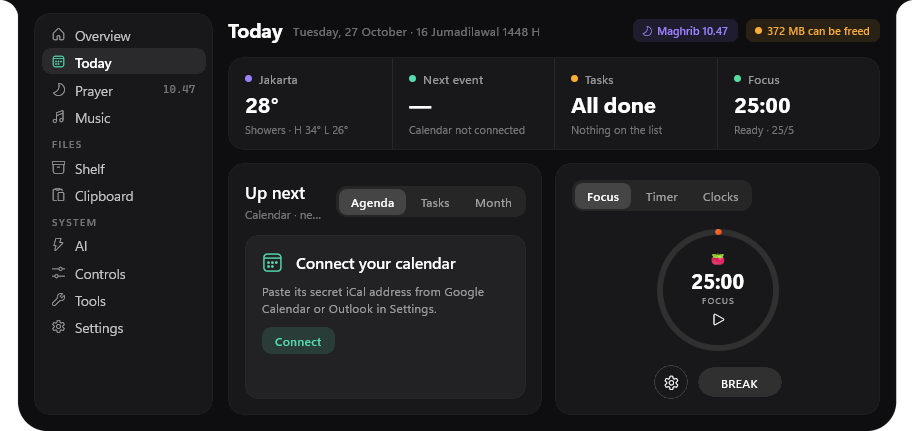
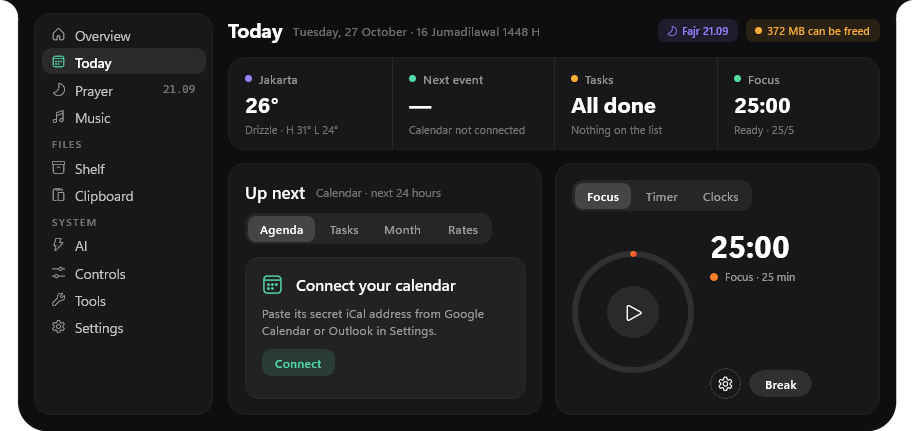
docs: fresh mac and windows renders in the hero, tidier footer buttons
The Mac shot is now the Today panel hanging from the notch like the Windows one,
both with the new focus card. Footer buttons are a size smaller and the tagline
stays on one line.

diff --git a/docs/index.html b/docs/index.html
@@ -250,9 +250,10 @@ footer { padding: 0; overflow: hidden; }
 .foot-top { display: grid; grid-template-columns: auto 1fr auto; align-items: center; gap: 24px; padding: 80px 56px 48px; border-bottom: 1px solid var(--border); }
 .foot-top img { width: 88px; height: 88px; border-radius: 22px; box-shadow: 0 16px 30px -12px rgba(59,139,255,.6); }
 .foot-top h4 { margin: 0; font-size: 40px; font-weight: 700; letter-spacing: -1.2px; }
-.foot-top p { margin: 4px 0 0; color: var(--text-2); font-size: 17px; }
-.foot-top .cta-row { margin: 0; flex-wrap: nowrap; }
-@media (max-width: 1100px) { .foot-top { grid-template-columns: auto 1fr; } .foot-top .cta-row { grid-column: 1 / -1; justify-content: flex-start; } }
+.foot-top p { margin: 4px 0 0; color: var(--text-2); font-size: 17px; white-space: nowrap; }
+.foot-top .cta-row { margin: 0; flex-wrap: nowrap; gap: 10px; }
+.foot-top .cta-row .btn { height: 46px; padding: 0 18px; font-size: 15px; border-radius: 14px; }
+@media (max-width: 1240px) { .foot-top { grid-template-columns: auto 1fr; } .foot-top .cta-row { grid-column: 1 / -1; justify-content: flex-start; } }
 .cols { display: grid; grid-template-columns: repeat(4, 1fr); gap: 24px; padding: 44px 56px; }
 .cols h5 { margin: 0 0 16px; font-size: 12px; letter-spacing: 1.6px; color: var(--text-3); font-weight: 600; }
 .cols a, .cols span { display: flex; gap: 8px; align-items: center; font-size: 15px; padding: 7px 0; color: var(--text-1); }
@@ -407,7 +408,9 @@ nav.scrolled { box-shadow: 0 1px 0 var(--border); }
 svg.winlogo { width: 1.1em; height: 1.1em; }
 .platform-stage .cap svg.winlogo, .plat-card .title svg.winlogo, .get .title svg.winlogo { width: 1em; height: 1em; }
 /* Windows' island hangs from the top edge, like the notch: real renders from the app */
-.platform-stage .desk .panel, .desk .panel { position: absolute; top: 0; left: 0; right: 0; margin: 0 auto; transform: none !important; width: 92%; max-width: 560px; height: auto; filter: drop-shadow(0 18px 30px rgba(0,0,0,.45)); }
+.platform-stage .mac .panel, .platform-stage .desk .panel, .desk .panel { position: absolute; top: 0; left: 0; right: 0; margin: 0 auto; transform: none !important; width: 92%; max-width: 560px; height: auto; filter: drop-shadow(0 18px 30px rgba(0,0,0,.45)); }
+.platform-stage .shot.mac { position: relative; display: block; }
+.platform-stage .mac .panel { max-width: 600px; filter: drop-shadow(0 18px 30px rgba(10,40,90,.35)); }
 .plat-card .vis.win img { width: min(400px, 88%); display: block; filter: drop-shadow(0 12px 24px rgba(0,0,0,.4)); }
 .desk .island { top: 0 !important; border-radius: 0 0 18px 18px !important; }
 
@@ -455,6 +458,7 @@ svg.winlogo { width: 1.1em; height: 1.1em; }
 @media (max-width: 560px) {
   .hero .pill { font-size: 11.5px; white-space: nowrap; gap: 6px; }
   .platform-stage .shot { height: 220px; }
+  .platform-stage .shot.mac { height: auto; aspect-ratio: 2 / 1; }
   .both .chips { grid-template-columns: 1fr; }
   .plat-card .body, .both, .get { padding: 24px; }
   .plat-card .title { flex-wrap: wrap; }
@@ -499,7 +503,7 @@ svg.winlogo { width: 1.1em; height: 1.1em; }
   <div class="stage"><div class="hero-shot platform-stage">
     <div>
       <div class="cap"><b><i data-lucide="apple"></i>macOS</b><span>Hover the notch · ⌥ Space</span></div>
-      <div class="shot"><img src="landing-page-assets/overview.png" alt="Beanotch's Overview panel open under the MacBook notch: health, CPU, memory, network, disk, cleanup and quick settings"></div>
+      <div class="shot mac"><img class="panel" src="landing-page-assets/mac-today.png" alt="Beanotch's Today panel open under the MacBook notch: weather, the next event, tasks and the focus timer"></div>
     </div>
     <div>
       <div class="cap"><b><svg class="lucide winlogo" viewBox="0 0 24 24" aria-hidden="true"><path fill="currentColor" d="M3 5.1 10.4 4v7.2H3zm8.4-1.2L21 2.5v8.7h-9.6zM3 12.6h7.4v7.3L3 18.8zm8.4 0H21v8.9l-9.6-1.4z"/></svg>Windows</b><span>Hover the island · Beta</span></div>
